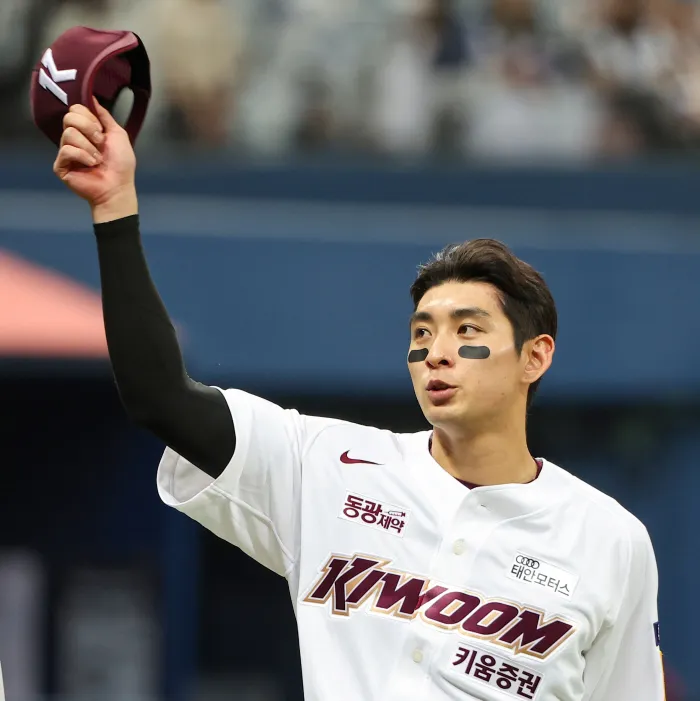
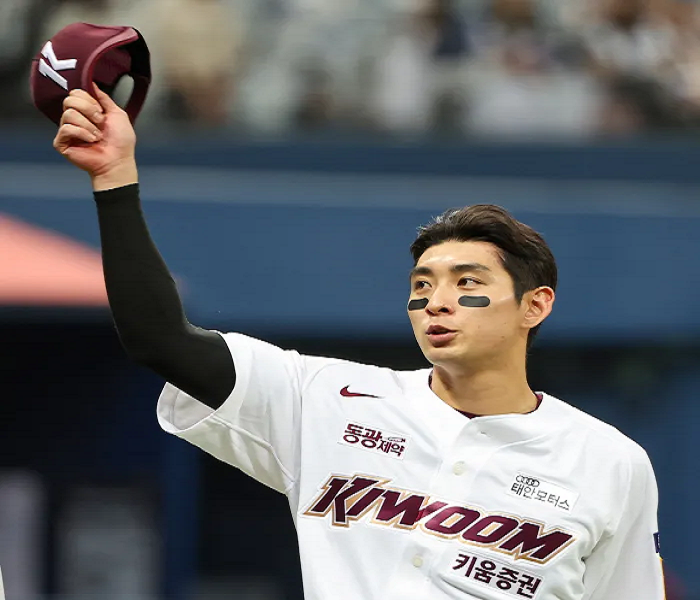
[ADD] 이용재 코드 최종 수정 완료

diff --git a/src/main/resources/templates/index.html b/src/main/resources/templates/index.html
@@ -17,9 +17,13 @@
         <div class="top-content">
             <div class="carousel">
                 <div class="carousel-inner">
-                    <div class="carousel-item"><img src="/img/오타니.jpg" alt="선수 1"></div>
-                    <div class="carousel-item"><img src="/img/SSG로고.png" alt="선수 2"></div>
-                    <div class="carousel-item"><img src="/img/NC로고.png" alt="선수 3"></div>
+                    <div class="carousel-item"><img src="/img/한국시리즈.jpg" alt="캐러셀5"></div>
+                    <div class="carousel-item"><img src="/img/삼성한국시리즈.jpg" alt="캐러셀6"></div>
+                    <div class="carousel-item"><img src="/img/관중사진.jpg" alt="캐러셀3"></div>
+                    <div class="carousel-item"><img src="/img/이정후.jpg" alt="캐러셀2"></div>
+                    <div class="carousel-item"><img src="/img/구자욱.jpg" alt="캐러셀4"></div>
+                    <div class="carousel-item"><img src="/img/김도영.jpg" alt="캐러셀1"></div>
+                    <div class="carousel-item"><img src="/img/오타니.jpg" alt="캐러셀1"></div>
                 </div>
                 <a href="#" class="carousel-control prev" onclick="moveCarousel(-1); return false;">&#10094;</a>
                 <a href="#" class="carousel-control next" onclick="moveCarousel(1); return false;">&#10095;</a>

diff --git a/src/main/resources/templates/header-footer.html b/src/main/resources/templates/header-footer.html
@@ -25,11 +25,11 @@
             <li><a href="/matchPredict">승부예측</a></li>
         </ul>
         <ul class="member-links">
-            <th:block th:if="${loggedIn}">
-                <li class="member-link"><a th:href="@{/member/mypage}"><span th:text="${memberNickName + ' 님'}"></span></a></li>
+            <th:block th:if="${session.loggedIn != null and session.loggedIn == true and session.memberNickName != null}">
+                <li class="member-link"><a th:href="@{/member/mypage}"> <span th:text="${session.memberNickName + ' 님'}"></span></a></li>
                 <li class="member-link"><a href="#" onclick="confirmLogout(); return false;">로그아웃</a></li>
             </th:block>
-            <th:block th:unless="${loggedIn}">
+            <th:block th:unless="${session.loggedIn != null and session.loggedIn == true and session.memberNickName != null}">
                 <li class="member-link"><a th:href="@{/member/loginpage}">로그인</a></li>
                 <li class="member-link"><a th:href="@{/member/joinmember}">회원가입</a></li>
             </th:block>
@@ -58,7 +58,6 @@
                         window.location.href = "/member/logout";
                     });
                 }
-                // '아니오'를 선택하거나 창을 닫았을 때는 아무 동작도 하지 않음
             });
         }
     </script>

diff --git a/src/main/resources/templates/member/loginpage.html b/src/main/resources/templates/member/loginpage.html
@@ -1,16 +1,11 @@
 <!DOCTYPE html>
 <html lang="ko" xmlns:th="http://www.thymeleaf.org">
-<head>
-    <meta charset="UTF-8">
-    <meta name="viewport" content="width=device-width, initial-scale=1.0">
-    <title>야구 리그 로그인</title>
-    <link rel="stylesheet" href="/css/member/login.css">
-    <link rel="stylesheet" href="/css/header-footer.css">
-    <script src="https://code.jquery.com/jquery-3.6.0.min.js"></script>
-    <script src="https://cdn.jsdelivr.net/npm/sweetalert2@11"></script>
-</head>
+<head th:insert="~{header-footer :: head}"></head>
+<script src="https://cdn.jsdelivr.net/npm/sweetalert2@11"></script>
 <body>
-
+<link rel="stylesheet" href="/css/member/login.css">
+<link rel="stylesheet" href="../css/member/modifymember.css">
+<script src="https://code.jquery.com/jquery-3.6.0.min.js"></script>
 <!-- 헤더 부분 -->
 <div th:insert="~{header-footer :: header}"></div>
 <main>

diff --git a/src/main/resources/templates/member/findpw.html b/src/main/resources/templates/member/findpw.html
@@ -1,15 +1,10 @@
 <!DOCTYPE html>
-<html lang="ko">
-<head>
-    <meta charset="UTF-8">
-    <meta name="viewport" content="width=device-width, initial-scale=1.0">
-    <title>비밀번호 찾기</title>
-    <link rel="stylesheet" href="/css/member/findpw.css">
-    <link rel="stylesheet" href="/css/header-footer.css">
-    <script src="https://code.jquery.com/jquery-3.6.0.min.js"></script>
-    <script src="https://cdn.jsdelivr.net/npm/sweetalert2@11"></script>
-</head>
+<html lang="ko" xmlns:th="http://www.thymeleaf.org">
+<head th:insert="~{header-footer :: head}"></head>
+<script src="https://cdn.jsdelivr.net/npm/sweetalert2@11"></script>
 <body>
+<link rel="stylesheet" href="/css/member/findpw.css">
+<script src="https://code.jquery.com/jquery-3.6.0.min.js"></script>
 <!-- 헤더 부분 -->
 <div th:insert="~{header-footer :: header}"></div>
 <main>

diff --git a/src/main/resources/templates/member/joinmember.html b/src/main/resources/templates/member/joinmember.html
@@ -1,15 +1,10 @@
 <!DOCTYPE html>
 <html lang="ko" xmlns:th="http://www.thymeleaf.org">
-<head>
-    <meta charset="UTF-8">
-    <meta name="viewport" content="width=device-width, initial-scale=1.0">
-    <title>회원가입</title>
-    <link rel="stylesheet" href="/css/header-footer.css">
-    <link rel="stylesheet" href="/css/member/joinmember.css">
-    <script src="https://code.jquery.com/jquery-3.6.0.min.js"></script>
-    <script src="https://unpkg.com/sweetalert/dist/sweetalert.min.js"></script>
-</head>
+<head th:insert="~{header-footer :: head}"></head>
+<script src="https://cdn.jsdelivr.net/npm/sweetalert2@11"></script>
 <body>
+<link rel="stylesheet" href="/css/member/joinmember.css">
+<script src="https://code.jquery.com/jquery-3.6.0.min.js"></script>
 <!-- 헤더 부분 -->
 <div th:insert="~{header-footer :: header}"></div>
 <main>

diff --git a/src/main/resources/templates/member/findid.html b/src/main/resources/templates/member/findid.html
@@ -1,13 +1,11 @@
 <!DOCTYPE html>
-<html lang="ko">
-<head>
-  <meta charset="UTF-8">
-  <meta name="viewport" content="width=device-width, initial-scale=1.0">
-  <title>아이디 찾기</title>
-  <link rel="stylesheet" href="/css/header-footer.css">
-  <link rel="stylesheet" href="/css/member/findid.css">
-</head>
+<html lang="ko" xmlns:th="http://www.thymeleaf.org">
+<head th:insert="~{header-footer :: head}"></head>
+<script src="https://cdn.jsdelivr.net/npm/sweetalert2@11"></script>
 <body>
+<link rel="stylesheet" href="/css/member/findid.css">
+<script src="https://code.jquery.com/jquery-3.6.0.min.js"></script>
+<!-- 헤더 부분 -->
 <div th:insert="~{header-footer :: header}"></div>
   <main>
     <div class="container">

diff --git a/src/main/resources/templates/member/mypage.html b/src/main/resources/templates/member/mypage.html
@@ -3,10 +3,10 @@
 <head th:insert="~{header-footer :: head}"></head>
 <script src="https://cdn.jsdelivr.net/npm/sweetalert2@11"></script>
 <body>
-    <div th:insert="~{header-footer :: header}"></div>
-    <link rel="stylesheet" href="/css/member/mypage.css">
-    <link rel="stylesheet" href="/css/header-footer.css">
-
+<link rel="stylesheet" href="/css/member/mypage.css">
+<script src="https://code.jquery.com/jquery-3.6.0.min.js"></script>
+<!-- 헤더 부분 -->
+<div th:insert="~{header-footer :: header}"></div>
 <main>
     <div class="mypage-container">
         <div class="profile-img">

diff --git a/src/main/resources/static/css/mainpage.css b/src/main/resources/static/css/mainpage.css
@@ -32,19 +32,23 @@ h2{
 /* 사진 케러셀 */
 .carousel {
     width: 48%;
+    height: 560px;
     position: relative;
     overflow: hidden;
+    margin-top: 65px;
 }
 
 .carousel-inner {
     display: flex;
     transition: transform 0.5s ease-in-out;
+    height: 100%;
 }
 
 .carousel-item {
     min-width: 100%;
     box-sizing: border-box;
     width: 48%;
+    height: 100%;
     margin-top: 65px;
 }
 
@@ -52,7 +56,7 @@ h2{
 .carousel-item img {
     width: 100%;
     height: auto;
-    object-fit: cover;
+    object-fit: contain;
 }
 
 .carousel-control {

diff --git a/src/main/resources/templates/member/deletemember.html b/src/main/resources/templates/member/deletemember.html
@@ -3,10 +3,7 @@
 <head th:insert="~{header-footer :: head}"></head>
 <script src="https://cdn.jsdelivr.net/npm/sweetalert2@11"></script>
 <body>
-<div th:insert="~{header-footer :: header}"></div>
-<link rel="stylesheet" href="/css/header-footer.css">
-
-<link rel="stylesheet" href="/css/member/deletemember.css">
+<link rel="stylesheet" href="../css/member/deletemember.css">
 <script src="https://code.jquery.com/jquery-3.6.0.min.js"></script>
 <!-- 헤더 부분 -->
 <div th:insert="~{header-footer :: header}"></div>

diff --git a/src/main/resources/templates/member/modifymember.html b/src/main/resources/templates/member/modifymember.html
@@ -3,7 +3,6 @@
 <head th:insert="~{header-footer :: head}"></head>
 <script src="https://cdn.jsdelivr.net/npm/sweetalert2@11"></script>
 <body>
-<div th:insert="~{header-footer :: header}"></div>
 <link rel="stylesheet" href="../css/member/modifymember.css">
 <script src="https://code.jquery.com/jquery-3.6.0.min.js"></script>
 <!-- 헤더 부분 -->

diff --git a/src/main/resources/static/css/admin-memberpage.css b/src/main/resources/static/css/admin-memberpage.css
@@ -120,7 +120,7 @@ th {
     border : 1px solid #ccc;
     border-radius: 5px;
     margin-left: 10px;
-    width: 60px;
+    width: 65px;
 
 }
 .statusbutton:hover{

diff --git a/src/main/java/com/moijo/gomatch/app/member/MemberContoroller.java b/src/main/java/com/moijo/gomatch/app/member/MemberContoroller.java
@@ -26,6 +26,7 @@ import org.springframework.web.servlet.mvc.support.RedirectAttributes;
 import java.time.LocalDate;
 import java.time.format.DateTimeFormatter;
 import java.time.format.DateTimeParseException;
+import java.util.Enumeration;
 import java.util.HashMap;
 import java.util.List;
 import java.util.Map;
@@ -176,14 +177,15 @@ public class MemberContoroller {
      */
     @GetMapping("/member/logout")
     public String logout(HttpSession session) {
-        // 세션 속성 제거
-        session.removeAttribute("loggedIn");
-        session.removeAttribute("memberNickName");
-        session.removeAttribute("kakaoAccessToken");
-        session.removeAttribute("kakaoRefreshToken");
-        session.removeAttribute("jwtToken");
+        // 모든 세션 속성을 명시적으로 제거
+        Enumeration<String> sessionAttributes = session.getAttributeNames();
+        while (sessionAttributes.hasMoreElements()) {
+            session.removeAttribute(sessionAttributes.nextElement());
+        }
+
         // 세션 무효화
         session.invalidate();
+
         return "redirect:/";
     }
 
@@ -320,10 +322,8 @@ public class MemberContoroller {
 
         // 카카오 로그인 사용자 처리
         if (session.getAttribute("kakaoAccessToken") != null) {
-            // 카카오 사용자 정보로 MemberVO 생성 또는 조회
             member = createOrGetKakaoMember(session);
         } else {
-            // 일반 로그인 사용자
             member = (MemberVO) session.getAttribute("member");
         }
 
@@ -339,6 +339,9 @@ public class MemberContoroller {
         String profileImageUrl = member.getProfileImageUrl();
         if (profileImageUrl == null || profileImageUrl.isEmpty()) {
             profileImageUrl = "/img/default-profile.png"; // 기본 이미지 경로
+        } else if (!profileImageUrl.startsWith("/img/member-img/")) {
+            // 카카오 프로필이 아닌 경우에만 경로 수정
+            profileImageUrl = "/img/member-img/" + profileImageUrl.substring(profileImageUrl.lastIndexOf("/") + 1);
         }
         model.addAttribute("profileImageUrl", profileImageUrl);
 
